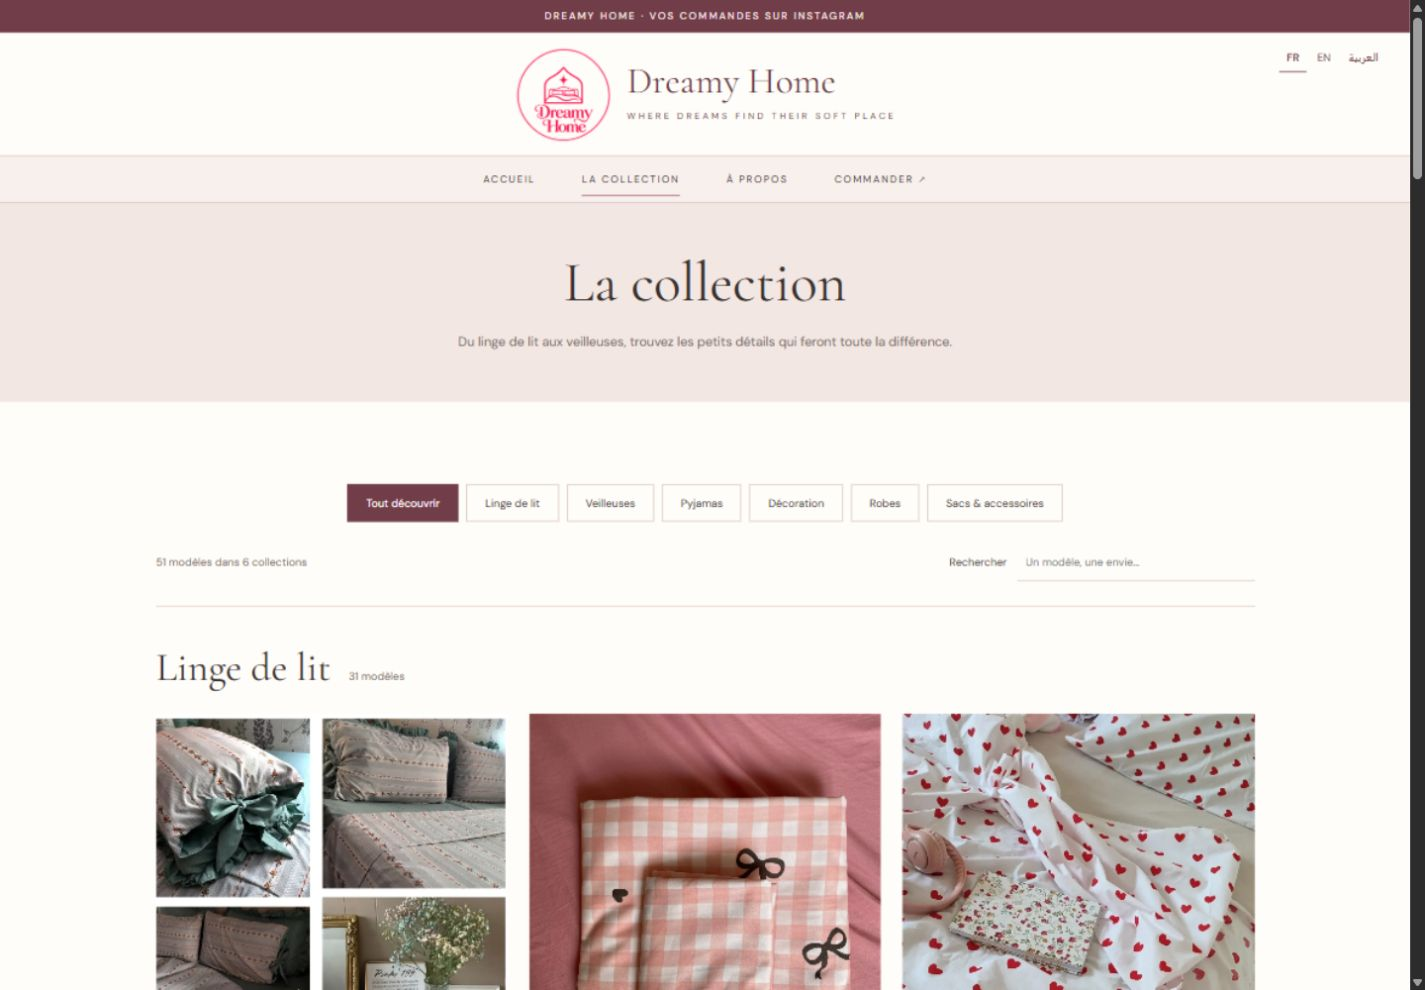
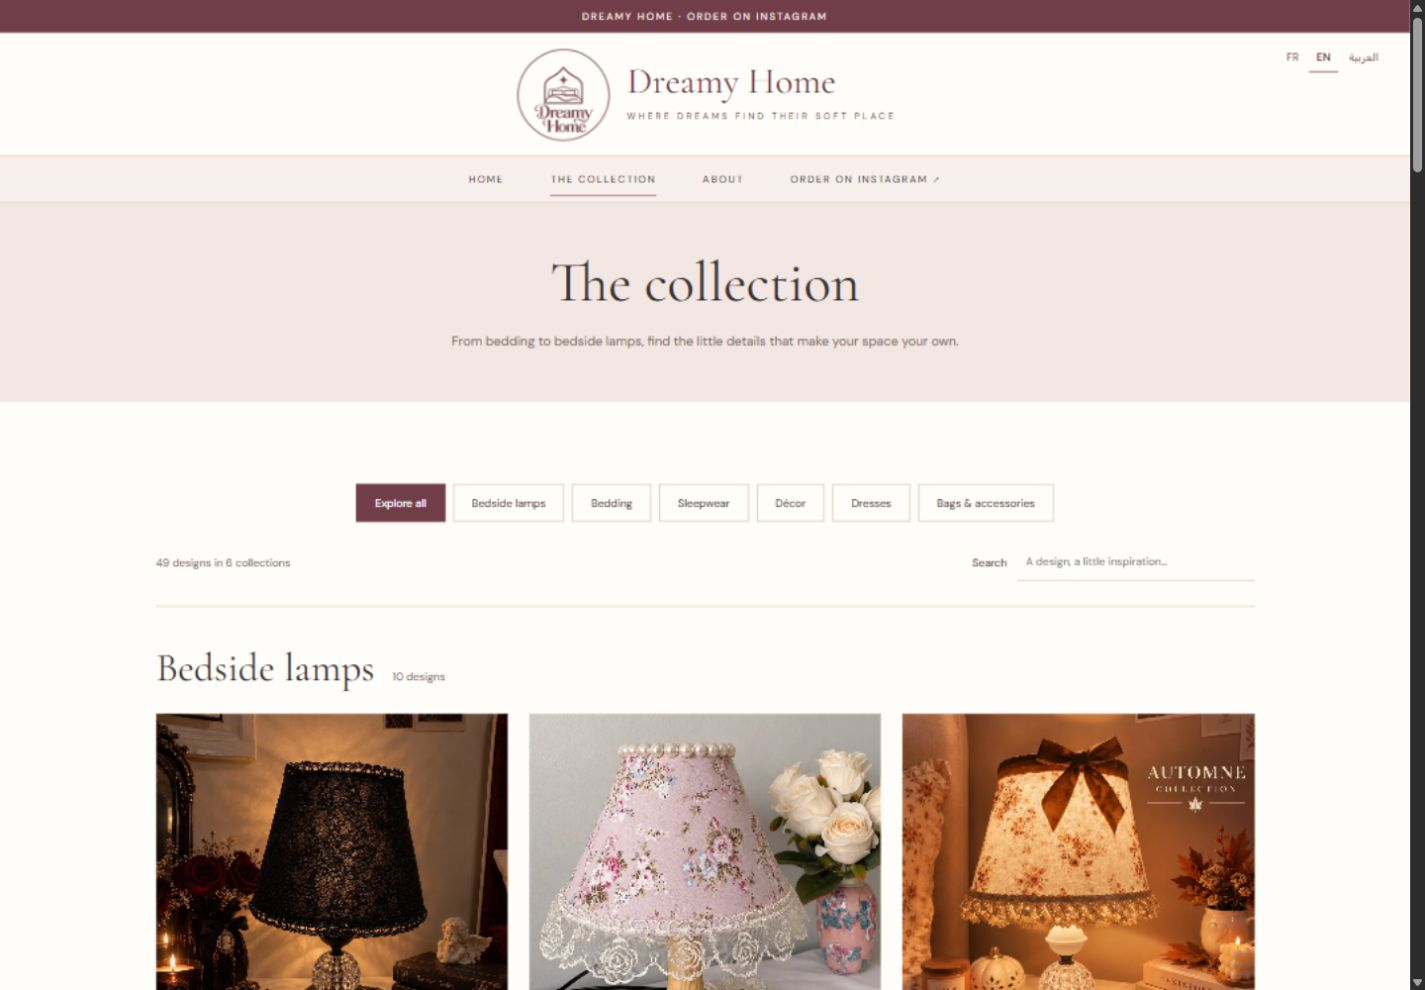
Refresh Dreamy Home portfolio copy and responsive screenshots

diff --git a/src/lib/portfolio.ts b/src/lib/portfolio.ts
@@ -17,7 +17,7 @@ import cafe from '../assets/portfolio/crumb-and-cup.jpg';
 // Leave these blank until the owner supplies verified contact details.
 export const contact = { whatsapp: '', email: '', instagram: 'https://www.instagram.com/safaawanour/' };
 export const projects = [
- { slug: 'dreamy-home', name: 'Dreamy Home', type: 'Boutique website project', category: 'Home & lifestyle / Boutique', image: dreamyHome, color: 'rose', summary: 'A romantic boutique website in French, English and Arabic for bedding, decorative lamps, sleepwear and home accessories, with orders through Instagram.', demoPath: 'demos/dreamy-home/', stack: ['HTML', 'CSS', 'JavaScript'], sections: [['Context', 'A website prepared for Dreamy Home from its Instagram product photography, the supplied rose-pink logo and a boutique layout reference.'], ['Design', 'Ivory, blush and rose frame product photography, Cormorant Garamond headings and a transparent bedroom emblem. Five collections organise bedding, lamps, pyjamas, decoration and dresses.'], ['Development', 'A responsive landing page, searchable and filterable collection, individual product views and About page, with French, English and right-to-left Arabic versions. Ordering links lead to the boutique Instagram account; prices, options and stock are confirmed there.'], ['Result', 'A complete static boutique website published as a portfolio preview. No online checkout or payments are collected.']] },
+ { slug: 'dreamy-home', name: 'Dreamy Home', type: 'Boutique website project', category: 'Home & lifestyle / Boutique', image: dreamyHome, color: 'rose', summary: 'A romantic boutique website in French, English and Arabic for bedding, decorative lamps, sleepwear and home accessories, with orders through Instagram.', demoPath: 'demos/dreamy-home/', stack: ['HTML', 'CSS', 'JavaScript'], sections: [['Context', 'A website prepared for Dreamy Home from its Instagram product photography, the supplied rose-pink logo and a boutique layout reference.'], ['Design', 'Ivory, blush and rose frame product photography, Cormorant Garamond headings and a transparent bedroom emblem. Scalloped floral category portraits and a muted rose logo bring the boutique reference to life. Six collections organise bedside lamps, bedding, sleepwear, décor, dresses and accessories.'], ['Development', 'A responsive landing page, searchable and filterable collection, individual product views and About page, with French, English and right-to-left Arabic versions. The catalogue brings together 49 designs with image galleries, search, category filters and prices in Algerian dinars. Ordering links lead to Instagram for options, stock and delivery confirmation.'], ['Result', 'A complete static boutique website published as a portfolio preview. No online checkout or payments are collected.']] },
 
  { slug: 'thiziri', name: 'Thiziri', type: 'Personal app & website project', category: 'Faith / Daily adhkar', image: thiziri, color: 'sage', summary: 'A calm home for daily adhkar, with a free, ad-free Android app and a multilingual web reader.', demoPath: 'thiziri/', stack: ['HTML', 'CSS', 'JavaScript', 'Android'], sections: [['Context', 'A personal project bringing daily adhkar into a free, ad-free Android app and a companion website. The landing page introduces Thiziri and gives visitors a direct route to the web reader.'], ['Design', 'A crescent calligraphy logo, soft green tones and generous space establish a quiet visual identity. Arabic text stays central, with English and French meanings and layouts adapted to smaller screens.'], ['Development', 'The companion web reader includes adhkar collections, recitation counters, favourites and controls for language, theme and text size. The website also provides separate web and Android privacy information.']] },
  { slug: 'serenas-sanctuary', name: 'Serena’s Sanctuary', type: 'Client website project', category: 'Wellbeing / Health coaching', image: serena, color: 'rose', summary: 'A warm, faith-rooted health coaching website for Muslim mothers, with a clear path to a free discovery call.', demoPath: 'serenassactuary/', stack: ['HTML', 'CSS', 'JavaScript'], sections: [['Context', 'A client website developed from Serena’s Canva draft, questionnaire, supplied logo, colours and coaching photograph.'], ['Design', 'Cream, blush and pale lavender backgrounds pair with olive accents and Lora serif headings. Personal photography and gentle, readable layouts centre Serena’s voice. The homepage introduces her approach, packages and FAQs, with a separate About page and direct Carepatron booking links. Mobile visitors have a floating booking button beside back-to-top. The existing client logo is retained; the newsletter currently uses an email request.']] },
@@ -149,5 +149,6 @@ export const projects = [
     ],
   },
 ];
+
 
 
